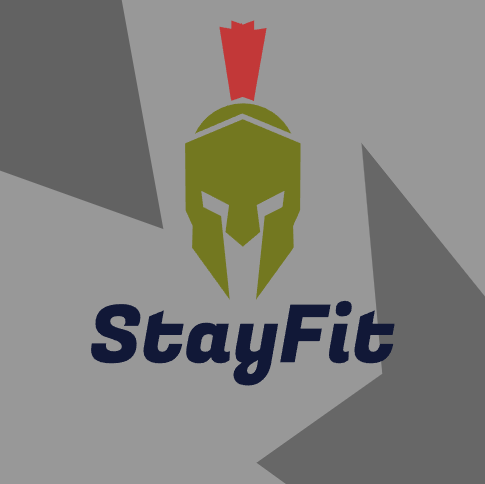
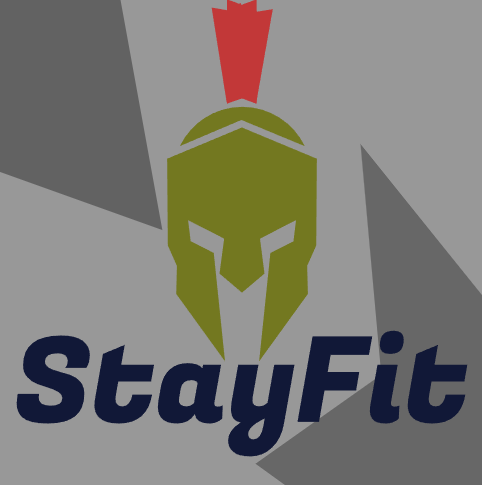
New template/website layout

Changed region(s): [[0.0311, 0.0, 0.9647, 0.9607], [0.9959, 0.5888, 1.0, 0.6198]]

diff --git a/Media/css/style.css b/Media/css/style.css
@@ -9,103 +9,21 @@ h1 {
     color: #5ed141;
 }
 
-.topnav {
-    background-color: #222222;
-    overflow: hidden;
-       
+.logga img {
+    height: 60px;
 }
 
 
-.logo {
-    margin-left: 25px;
+.gradient-custom {
+    /* fallback for old browsers */
+    background: #6a11cb;
     
-}
-
-.logo img {
-    float: left;
-    margin-top: 6px;
-    width: 80px;
-      
-}
-
-
-.companyname h3{
-    float: left;
-    text-align: center;
-    padding: 0;
-    margin-top: 14px;
-    margin-bottom: 0;
-    margin-left: 35px;
-    color: #f2f2f2;
-    font-size: 25px;
-}
-
-
-.navigation {
-margin-left: 500px;
-
-}
-
-.navigation a {
-    float: left;
-    color: #f2f2f2;
-    text-align: center;
-    padding: 6px;
-    margin-top: 8px;
-    margin-bottom: 8px;
-    margin-left: 10px;
-    margin-right: 10px;
-    text-decoration: none;
-    font-size: 20px;
-
-}
-
-.navigation a:hover {
-    background-color: #ddd;
-    color: black;
+    /* Chrome 10-25, Safari 5.1-6 */
+    background: -webkit-linear-gradient(to right, rgba(106, 17, 203, 1), rgba(37, 117, 252, 1));
     
-}
-
-
-
-.login a {
-    float: right;
-    color: #f2f2f2;
-    text-align: center;
-    padding: 6px;
-    margin-top: 8px;
-    margin-bottom: 8px;
-    margin-right: 10px;
-    text-decoration: none;
-    font-size: 20px;
-
-}
-
-.login a:hover {
-    background-color: #ddd;
-    color: black;
-}
-
-#signup {
-    background-color: #ffffff;
-    color: #222222;
-}
-
-.loggedinas {
-    float: right;
-    color: #8b8888;
-    text-align: center;
-    padding: 0px;
-    margin-top: 6px;
-    margin-right: 30px;
-    font-size: 13px;
-
-
-}
-
-
-
-
+    /* W3C, IE 10+/ Edge, Firefox 16+, Chrome 26+, Opera 12+, Safari 7+ */
+    background: linear-gradient(to right, rgba(106, 17, 203, 1), rgba(37, 117, 252, 1))
+    }
 
 
 .welcometext {
@@ -128,22 +46,6 @@ margin-left: 500px;
 
 }
 
-.runningpic {
-    float: left;
-    z-index: -1;
-    position: absolute;
-
-}
-
-.runningpic img{
-    display: block;
-    margin-left: auto;
-    margin-right: auto;
-    width: 100%;
-    height: auto;
-    
-
-}
 
 .active {
     background-color: #72a1fa;

diff --git a/index.php b/index.php
@@ -10,10 +10,6 @@ include('nav.php');
 echo $navigation;
 ?>
 
-<div class="container">
-    
-    
-
 
     <div class="content">
 
@@ -23,25 +19,25 @@ echo $navigation;
             <h1>Welcome BLA BLA BLA</h1>
 
             <div class="text">
-            <p>
-                Lorem ipsum dolor sit amet, consectetur adipiscing elit. Nam volutpat, ligula eu tempor gravida, 
-                mauris quam rhoncus urna, ac accumsan justo velit non dolor. Morbi vitae orci accumsan enim 
-                dignissim imperdiet at ut felis. In lorem elit, pretium id risus ac, dapibus tempus velit. 
-                Mauris non ex sit amet diam congue lacinia. Suspendisse potenti. Sed eu dignissim enim. Morbi 
-                viverra turpis at augue tempor molestie. In id consequat sem.
-            </p>
+                <p>
+                    Lorem ipsum dolor sit amet, consectetur adipiscing elit. Nam volutpat, ligula eu tempor gravida, 
+                    mauris quam rhoncus urna, ac accumsan justo velit non dolor. Morbi vitae orci accumsan enim 
+                    dignissim imperdiet at ut felis. In lorem elit, pretium id risus ac, dapibus tempus velit. 
+                    Mauris non ex sit amet diam congue lacinia. Suspendisse potenti. Sed eu dignissim enim. Morbi 
+                    viverra turpis at augue tempor molestie. In id consequat sem.
+                </p>
 
-            <p>
-                Sed ornare auctor massa, eu mollis dolor porttitor sed. Ut suscipit ipsum sit amet enim ultricies 
-                pellentesque. Phasellus nec hendrerit nunc. Aenean et sem quis lorem varius sollicitudin. Etiam 
-                accumsan finibus nisl, nec pellentesque nibh dignissim nec. Phasellus pretium velit non ante porta 
-                tristique. Cras felis neque, varius ac dolor eu, accumsan ultrices dolor. Curabitur eu commodo sem, 
-                non luctus lorem. Aliquam vestibulum semper arcu posuere semper. Mauris vel congue leo, id tempor 
-                leo. Vestibulum eget dictum lorem, vitae sodales risus. Donec ornare, risus et iaculis elementum, 
-                ipsum elit consequat ex, sit amet aliquet erat quam laoreet quam. Quisque ornare nisi lectus, quis 
-                cursus risus fermentum ut. Cras ac ultricies nisl. Suspendisse vulputate massa ac nisi mollis, sit 
-                amet congue dui porttitor. Phasellus et porta arcu.
-            </p>
+                <p>
+                    Sed ornare auctor massa, eu mollis dolor porttitor sed. Ut suscipit ipsum sit amet enim ultricies 
+                    pellentesque. Phasellus nec hendrerit nunc. Aenean et sem quis lorem varius sollicitudin. Etiam 
+                    accumsan finibus nisl, nec pellentesque nibh dignissim nec. Phasellus pretium velit non ante porta 
+                    tristique. Cras felis neque, varius ac dolor eu, accumsan ultrices dolor. Curabitur eu commodo sem, 
+                    non luctus lorem. Aliquam vestibulum semper arcu posuere semper. Mauris vel congue leo, id tempor 
+                    leo. Vestibulum eget dictum lorem, vitae sodales risus. Donec ornare, risus et iaculis elementum, 
+                    ipsum elit consequat ex, sit amet aliquet erat quam laoreet quam. Quisque ornare nisi lectus, quis 
+                    cursus risus fermentum ut. Cras ac ultricies nisl. Suspendisse vulputate massa ac nisi mollis, sit 
+                    amet congue dui porttitor. Phasellus et porta arcu.
+                </p>
             </div>
             
         </div>

diff --git a/login.php b/login.php
@@ -29,7 +29,7 @@ END;
 }
 ?>
 
-<form action="login.php" method="post" id="main">
+<!--<form action="login.php" method="post" id="main">
     <h1 id="login_h1">BrandName</h1>
     <div class="login_p">
         <p>Login to start your journey!</p>
@@ -44,7 +44,58 @@ END;
             <a href="register.php">Dont have an account yet? Sign up</a>
         </div>
     </div>
-</form>
+</form>-->
+
+
+
+<section class="vh-100">
+    <div class="container py-5 h-100">
+        <div class="row d-flex justify-content-center align-items-center h-100">
+            <div class="col-12 col-md-8 col-lg-6 col-xl-5">
+                <div class="card bg-dark text-white" style="border-radius: 1rem;">
+                    <div class="card-body p-5 text-center">
+
+                        <div class="mb-md-5 mt-md-4">
+
+                            <h2 class="fw-bold mb-2 text-uppercase">Login to start your journey!</h2>
+                            <p class="text-white-50 mb-5">Please enter your username and password!</p>
+              
+                            <form action="login.php" method="post" id="main">  
+                                <div class="form-outline form-white mb-4">
+                                    <label class="form-label" for="username">Username</label>
+                                    <input id="loginName" type="text" name="username" class="form-control form-control-lg">
+                
+                                </div>
+
+                                <div class="form-outline form-white mb-4">
+                                    <label class="form-label" for="typePasswordX">Password</label>
+                                    <input id="typePasswordX" type="password" name="password" class="form-control form-control-lg">
+                
+                                </div>
+
+
+                                <button class="btn btn-outline-light px-5" type="submit">Login</button>
+                            </form>
+                        </div>
+
+                        <div>
+                            <p class="mb-0">Don't have an account yet? <a href="register.php" class="text-white-50 fw-bold">Sign Up</a>
+                            </p>
+                        </div>
+
+                    </div>
+                </div>
+            </div>
+        </div>
+    </div>
+</section>
+
+
+
+
+
+
+
 
 
 <?php

diff --git a/nav.php b/nav.php
@@ -3,9 +3,9 @@
 
     <head>
         <link href="https://cdn.jsdelivr.net/npm/bootstrap@5.1.3/dist/css/bootstrap.min.css" rel="stylesheet" integrity="sha384-1BmE4kWBq78iYhFldvKuhfTAU6auU8tT94WrHftjDbrCEXSU1oBoqyl2QvZ6jIW3" crossorigin="anonymous">
-        <link rel="stylesheet" href="Media/css/style.css">
-        <link rel="stylesheet" href="https://mdbootstrap.com/snippets/styles.e41eb5076eefabc7c908.css">
         
+        <link rel="stylesheet" href="https://mdbootstrap.com/snippets/styles.e41eb5076eefabc7c908.css">
+        <link rel="stylesheet" href="Media/css/style.css">
         <meta charset="utf-8">
         <title>Stay Fit</title>
     </head>
@@ -25,8 +25,8 @@ $navigation = <<<END
     
     <nav class="navbar navbar-expand-lg bg-light navbar-light">
         <div class="container">
-            <a class="navbar-brand" href="#">
-            <img id="logo" src="" alt="Logo" draggable="false" height="30"/>
+            <a class="logga" href="#">
+            <img id="logo" src="/~seleri21/ProjectHD/Media/images/brandstayfit.png" alt="Logo" draggable="false" height="30">
             </a>
 
             <button

diff --git a/faq.php b/faq.php
@@ -1,17 +1,10 @@
-<!DOCTYPE html>
-<html lang="en">
 
-<head>
-    <?php
-    include('nav.php');
-    ?>
-    <meta charset="utf-8">
-    <title>FAQ</title>
-</head>
+<?php
+include('nav.php');
+?>
 
-<body>
     
-    <div class="container">
+    
 
         <?php
         echo $navigation;
@@ -102,9 +95,8 @@
             
 
 
+<?php
+include("footer.php")
+?>
 
 
-
-</body>
-
-</html>

diff --git a/about.php b/about.php
@@ -1,17 +1,8 @@
-<!DOCTYPE html>
-<html lang="en">
 
-<head>
-    <?php
-    include('nav.php');
-    ?>
-    <meta charset="utf-8">
-    <title>About</title>
-</head>
+<?php
+include('nav.php');
+?>
 
-<body>
-    
-    <div class="container">
 
         <?php
         echo $navigation;
@@ -53,9 +44,8 @@
 
 
 
-
-</body>
-
-</html>
+<?php
+include("footer.php")
+?>
 
 
